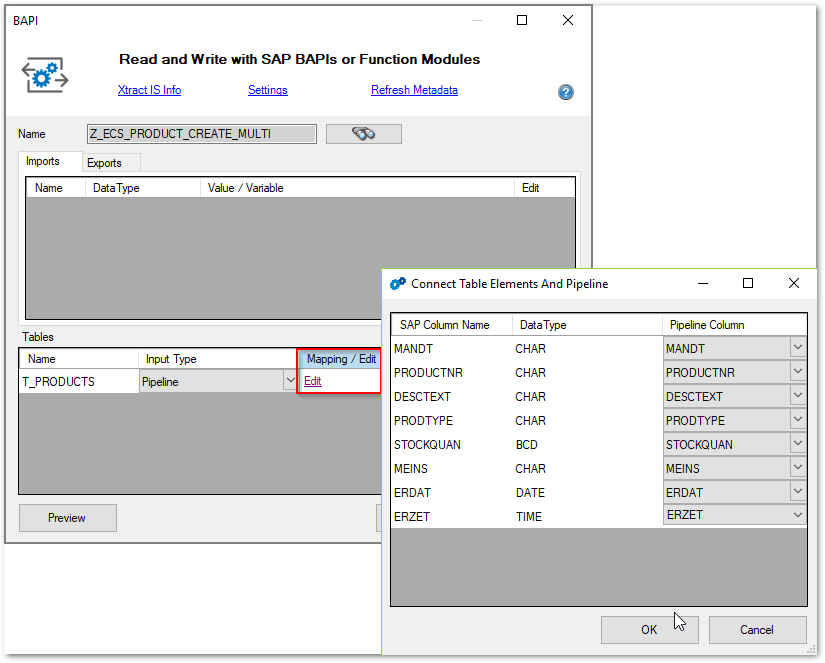
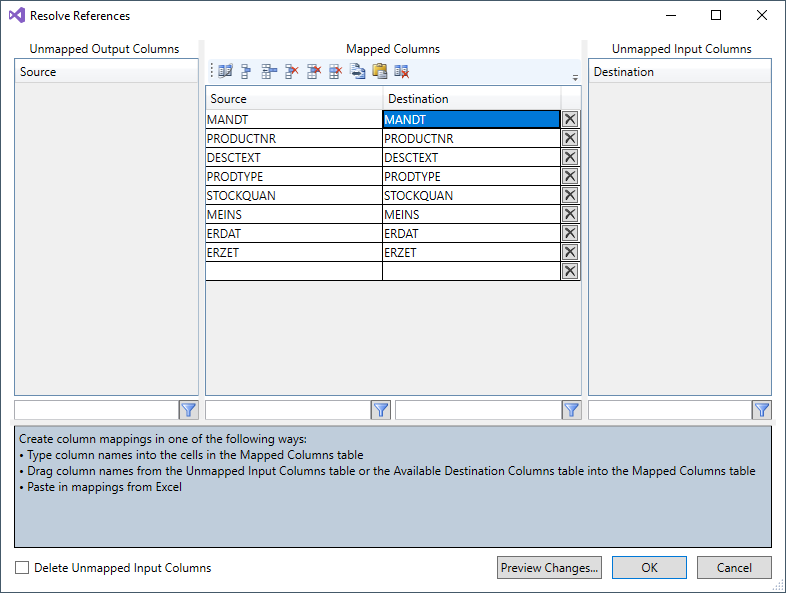
XIS: BAPI data to SAP - new screenshot

diff --git a/_includes/_content/de/xis-specific/xtract-is-bapi/wie_man_mit_bapi_daten_in_sap_schreibt.md b/_includes/_content/de/xis-specific/xtract-is-bapi/wie_man_mit_bapi_daten_in_sap_schreibt.md
@@ -39,7 +39,6 @@ Markieren Sie die Tabelle *T_PRODUCTS* für die Ausgabe, indem Sie die Checkbox 
 ![ssis-write-xtractis-fuba-01](/img/content/ssis-write-xtractis-fuba-01.png){:class="img-responsive"}
 3. Verbinden Sie die Komponenten Quelle und Xtract BAPI miteinander. <br>
 ![ssis-write-xtractis-fuba-02](/img/content/ssis-write-xtractis-fuba-02.png){:class="img-responsive"}
-4. Klicken Sie im Tab **Tables** der Xtract Komponente auf **[Edit]**, um die Spalten der Eingabetabelle zu mappen. <br>
-![ssis-write-xtractis-fuba-03](/img/content/ssis-write-xtractis-fuba-03.png){:class="img-responsive"}
+4. Rechtsklicken Sie auf die Verbindung der Komponenten und wählen Sie **Resolve References**. Mappen Sie die Spalten der Eingabetabellen. <br>
 5. Führen Sie das SSIS-Paket aus. <br>
 ![ssis-write-xtractis-fuba-04](/img/content/ssis-write-xtractis-fuba-04.png){:class="img-responsive"}

diff --git a/_includes/_content/en/xis-specific/bapi/how-to-post-data.md b/_includes/_content/en/xis-specific/bapi/how-to-post-data.md
@@ -39,7 +39,7 @@ The table has the following content:
 ![ssis-write-xtractis-fuba-01](/img/content/ssis-write-xtractis-fuba-01.png){:class="img-responsive" }
 3. Connect the Source component with the Xtract component. <br>
 ![ssis-write-xtractis-fuba-02](/img/content/ssis-write-xtractis-fuba-02.png){:class="img-responsive" }
-4. In the **Tables** tab of the Xtract component, click **[Edit]** to map the columns of the inout table. <br>
+4. Right-click the connection of the components and select **Resolve References**. Map the columns of the input tables. <br>
 ![ssis-write-xtractis-fuba-03](/img/content/ssis-write-xtractis-fuba-03.png){:class="img-responsive" }
 5. Click **[OK]** and run the SSIS Package.<br>
 ![ssis-write-xtractis-fuba-04](/img/content/ssis-write-xtractis-fuba-04.png){:class="img-responsive" }
